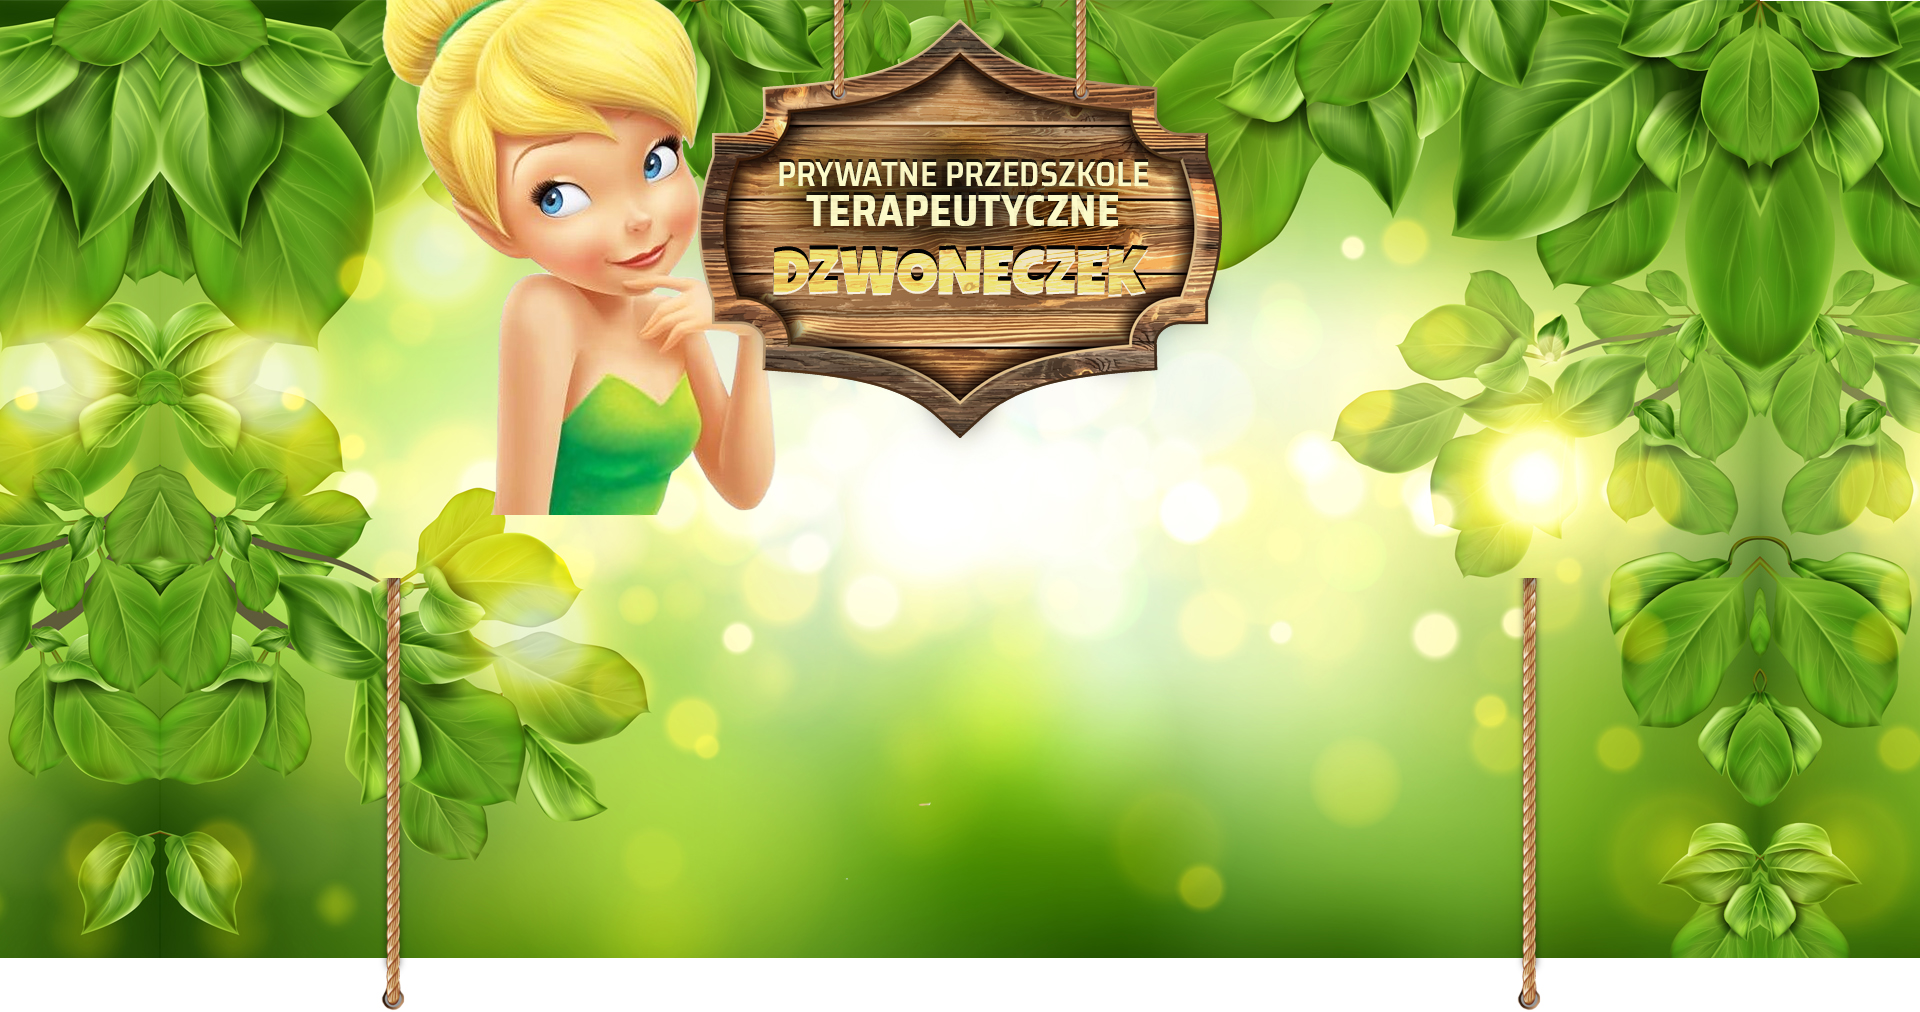
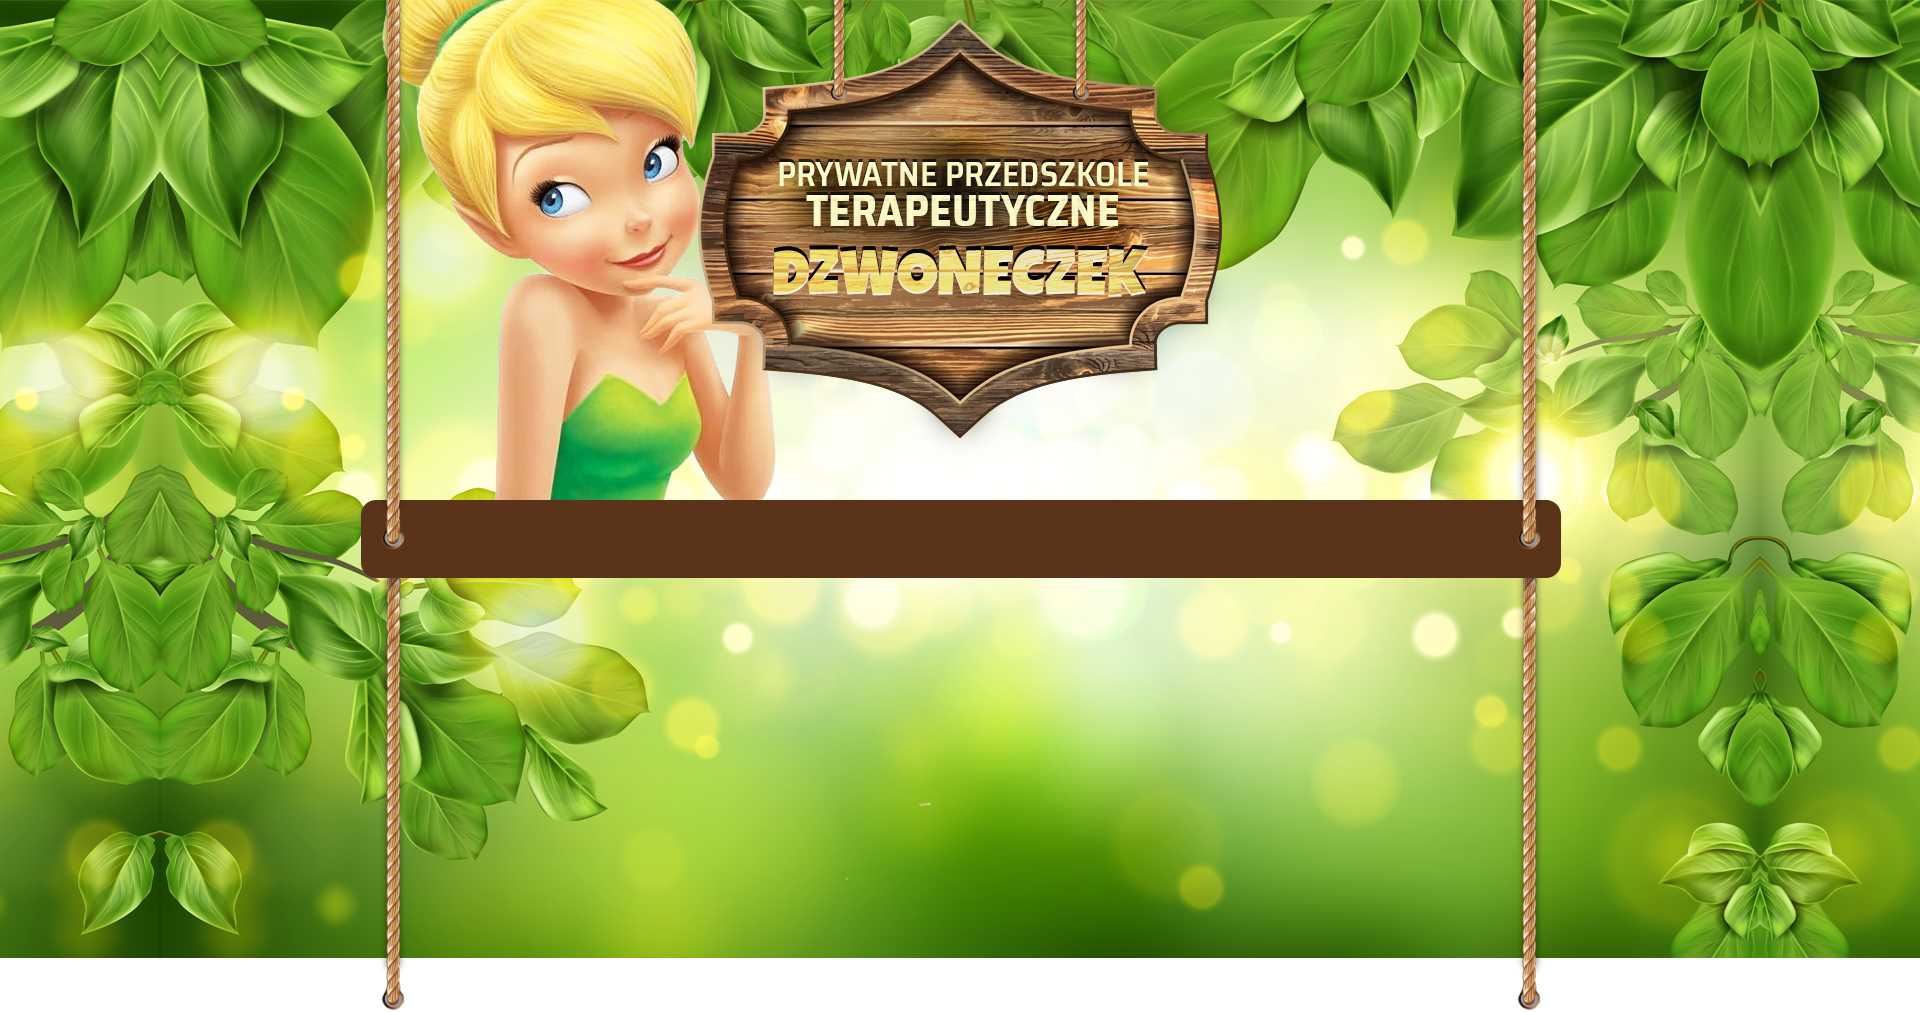
img

Changed region(s): [[0.1875, 0.0, 0.8125, 0.582]]

diff --git a/src/components/HeroIndex.js b/src/components/HeroIndex.js
@@ -1,48 +1,68 @@
 import React, { useEffect, useState } from "react"
-import { graphql, useStaticQuery } from "gatsby"
 
 import Image from "gatsby-image"
 
 import Navigation from "../components/Navigation"
 import OurValues from "../components/OurValues"
-import { navbar, barImage, headerImage } from "../styles/heroIndex.module.css"
+import {
+  navbar,
+  image,
+  barImage,
+  headerImage,
+  shortVersion,
+  imageMobile,
+  headerImageMobile,
+} from "../styles/heroIndex.module.css"
 
-const Hero = () => {
-  const data = useStaticQuery(query)
+import header from "../images/main/header.jpg"
+import headerShort from "../images/main/header_short.jpg"
+import headerMobile from "../images/main/mobile_top.jpg"
 
-  const {
-    allFile: { nodes },
-  } = data
+function debounce(fn, ms) {
+  let timer
+  return (_) => {
+    clearTimeout(timer)
+    timer = setTimeout((_) => {
+      timer = null
+      fn.apply(this, arguments)
+    }, ms)
+  }
+}
 
-  const [bar, header] = nodes
+const Hero = ({ small }) => {
+  const [dimensions, setDimensions] = React.useState({
+    height: window.innerHeight,
+    width: window.innerWidth,
+  })
+
+  React.useEffect(() => {
+    const debouncedHandleResize = debounce(function handleResize() {
+      setDimensions({
+        height: window.innerHeight,
+        width: window.innerWidth,
+      })
+    }, 1000)
+
+    window.addEventListener("resize", debouncedHandleResize)
+
+    return (_) => {
+      window.removeEventListener("resize", debouncedHandleResize)
+    }
+  }, [])
 
   return (
     <>
-      <div className={headerImage}>
-        <Image fluid={header.childImageSharp.fluid} alt="background" />
+      <div className={`${dimensions.width > 1019 && headerImage} ${small && shortVersion} `}>
+        <img src={small ? headerShort : header} className={image} />
+        {dimensions.width <= 1019 && <img src={headerMobile} className={imageMobile} />}
       </div>
+
       <div className={barImage}>
-        <Image fluid={bar.childImageSharp.fluid} alt="navigation" />
         <Navigation styles={navbar} />
-        <OurValues />
+        {!small && <OurValues />}
       </div>
     </>
   )
 }
-
-const query = graphql`
-  {
-    allFile(filter: { dir: { regex: "/main/" } }) {
-      nodes {
-        childImageSharp {
-          fluid(quality: 100) {
-            ...GatsbyImageSharpFluid
-          }
-        }
-        id
-      }
-    }
-  }
-`
 
 export default Hero

diff --git a/src/styles/heroIndex.module.css b/src/styles/heroIndex.module.css
@@ -1,13 +1,42 @@
 .headerImage {
   position: relative;
-  top: -1px;
+  overflow: hidden;
+  width: 100%;
+  display: flex;
+  /* min-height: 100vh; */
+  height: 1012px;
+}
+
+.headerImageMobile {
+  position: relative;
+  overflow: hidden;
+  width: 100%;
+  display: flex;
+  height: 655px;
+}
+
+.shortVersion {
+  height: 704px;
+}
+
+.image {
+  position: absolute;
+  top: -9999px;
+  bottom: -9999px;
+  left: -9999px;
+  right: -9999px;
+  margin: auto;
+}
+
+.imageMobile {
+  width: 100%;
 }
 
 .barImage {
   position: absolute;
   z-index: 9999;
-  top: 0;
-  max-width: 62.5%;
+  top: 575px;
+  max-width: 1200px;
   width: 100%;
   left: 0;
   right: 0;
@@ -16,10 +45,10 @@
 
 .navbar {
   position: relative;
-  top: -50px;
+  top: -75px;
+  height: 75px;
   width: 100%;
   box-sizing: border-box;
-  height: 45px;
   border-radius: 10px;
   display: flex;
   color: #f9bf81;
@@ -55,7 +84,7 @@
   z-index: -2;
 }
 
-@media (min-width: 1440px) {
+/* @media (min-width: 1440px) {
   .navbar {
     top: -60px;
     height: 60px;
@@ -67,7 +96,7 @@
     top: -70px;
     height: 70px;
   }
-}
+} */
 
 .navbar ul {
   display: flex;
@@ -90,4 +119,18 @@
   display: flex;
   justify-content: center;
   width: 100%;
+}
+
+@media (max-width: 1019px) {
+  .separator {
+    font-size: 32px;
+  }
+  .separator::after {
+    top: 10px;
+  }
+
+  .image,
+  .navbar {
+    display: none;
+  }
 }

diff --git a/src/components/Recomendations.js b/src/components/Recomendations.js
@@ -23,20 +23,43 @@ const defParams = {
   loop: true,
 }
 
+function debounce(fn, ms) {
+  let timer
+  return (_) => {
+    clearTimeout(timer)
+    timer = setTimeout((_) => {
+      timer = null
+      fn.apply(this, arguments)
+    }, ms)
+  }
+}
+
 const Recomendations = () => {
-  const [mobile, setMobile] = useState(false)
   const [params, setParams] = useState({})
 
-  useEffect(() => {
-    setMobile(window.innerWidth <= 1019)
-  }, [])
+  const [dimensions, setDimensions] = React.useState({
+    height: window.innerHeight,
+    width: window.innerWidth,
+  })
 
-  useEffect(() => {
+  React.useEffect(() => {
+    const debouncedHandleResize = debounce(function handleResize() {
+      setDimensions({
+        height: window.innerHeight,
+        width: window.innerWidth,
+      })
+    }, 1000)
+
+    window.addEventListener("resize", debouncedHandleResize)
     setParams({
       ...defParams,
-      slidesPerView: mobile ? 1 : 3,
+      slidesPerView: dimensions.width <= 1019 ? 1 : 3,
     })
-  }, [mobile])
+
+    return (_) => {
+      window.removeEventListener("resize", debouncedHandleResize)
+    }
+  }, [])
 
   const {
     allDatoCmsReview: { nodes },

diff --git a/src/components/Footer.js b/src/components/Footer.js
@@ -1,32 +1,18 @@
 import React from "react"
-import { graphql, useStaticQuery } from "gatsby"
-import Image from "gatsby-image"
+
+import footerWhite from "../images/main/footer_white.jpg"
+import footerGreen from "../images/main/footer_green.jpg"
+
+import { footerWrapper, img } from "../styles/footer.module.css"
 
 const Footer = (props) => {
-  const data = useStaticQuery(query)
-  const {
-    allFile: { nodes },
-  } = data
+  const footerVersion = props.white ? footerWhite : footerGreen
 
-  const [white, index] = nodes
-  const footerVersion = props.white ? white : index
-
-  return <Image fluid={footerVersion.childImageSharp.fluid} alt="footer" />
+  return (
+    <div className={footerWrapper}>
+      <img src={footerVersion} className={img} alt="footer" />
+    </div>
+  )
 }
-
-const query = graphql`
-  {
-    allFile(filter: { dir: { regex: "/footer/" } }, sort: { fields: relativePath, order: ASC }) {
-      nodes {
-        childImageSharp {
-          fluid(quality: 100) {
-            ...GatsbyImageSharpFluid
-          }
-        }
-        id
-      }
-    }
-  }
-`
 
 export default Footer

diff --git a/src/styles/footer.module.css b/src/styles/footer.module.css
@@ -4,6 +4,23 @@
   position: relative;
 }
 
+.footerWrapper {
+  position: relative;
+  overflow: hidden;
+  width: 100%;
+  display: flex;
+  height: 554px;
+}
+
+.img {
+  position: absolute;
+  top: -9999px;
+  bottom: -9999px;
+  left: -9999px;
+  right: -9999px;
+  margin: auto;
+}
+
 .container {
   max-width: 1200px;
   margin: 0 auto;

diff --git a/src/pages/kontakt.js b/src/pages/kontakt.js
@@ -17,7 +17,7 @@ const ContactPage = () => {
   return (
     <Layout>
       <SEO title="Dzwoneczek | kontakt" />
-      <HeroIndex />
+      <HeroIndex small />
       <HeaderSeparator value="kontakt" />
 
       <Contact />

diff --git a/src/styles/recomendations.module.css b/src/styles/recomendations.module.css
@@ -91,6 +91,10 @@
     max-width: 350px;
   }
 
+  .userDetails {
+    margin-left: 0;
+  }
+
   .wrapper::before,
   .wrapper::after {
     content: none;
